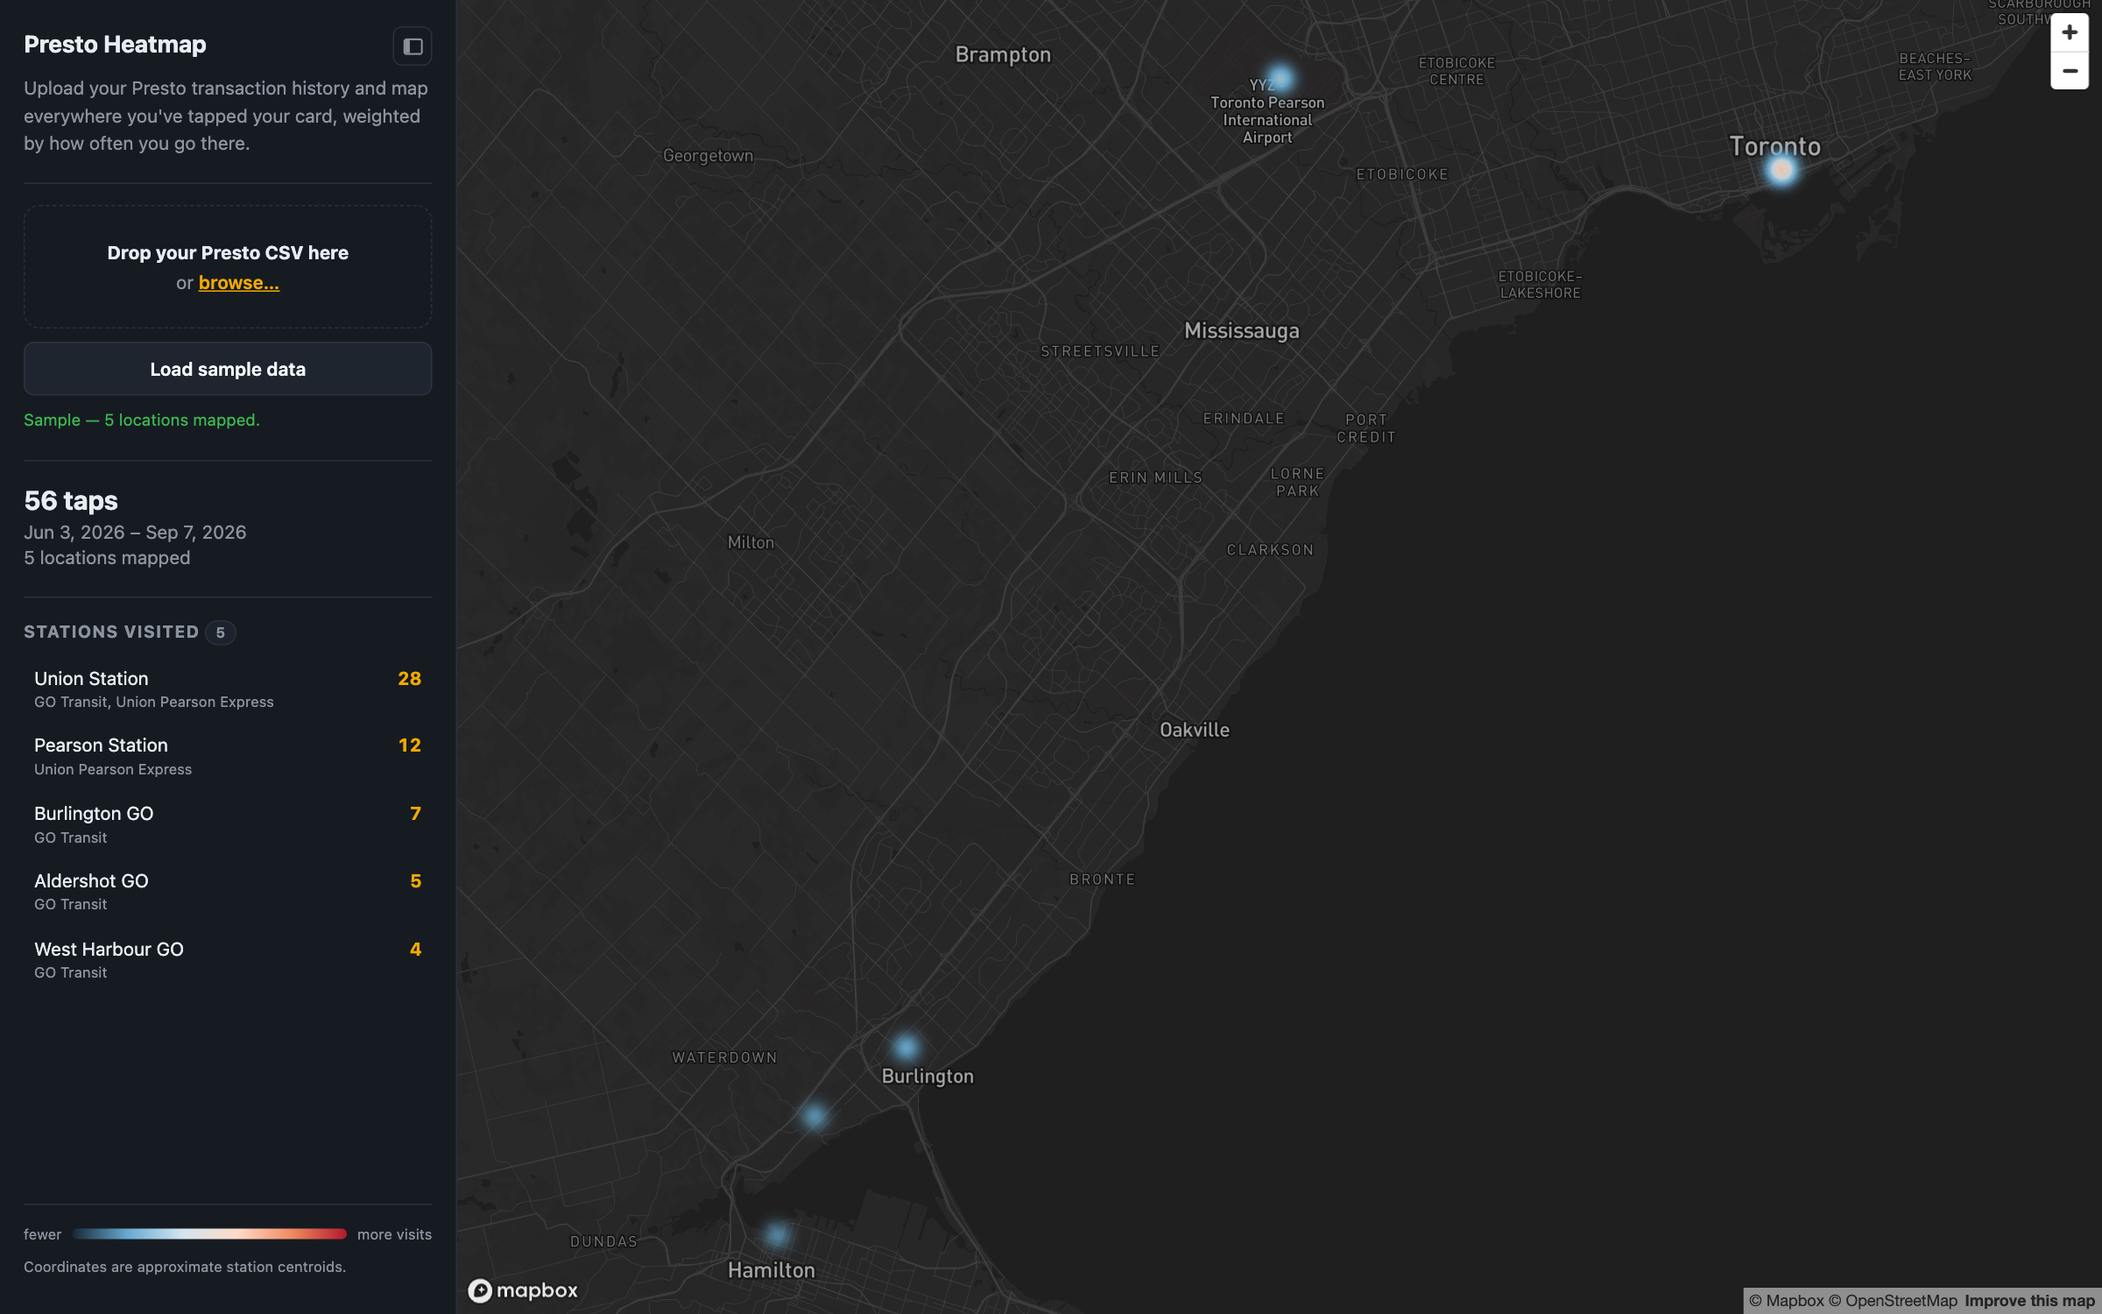
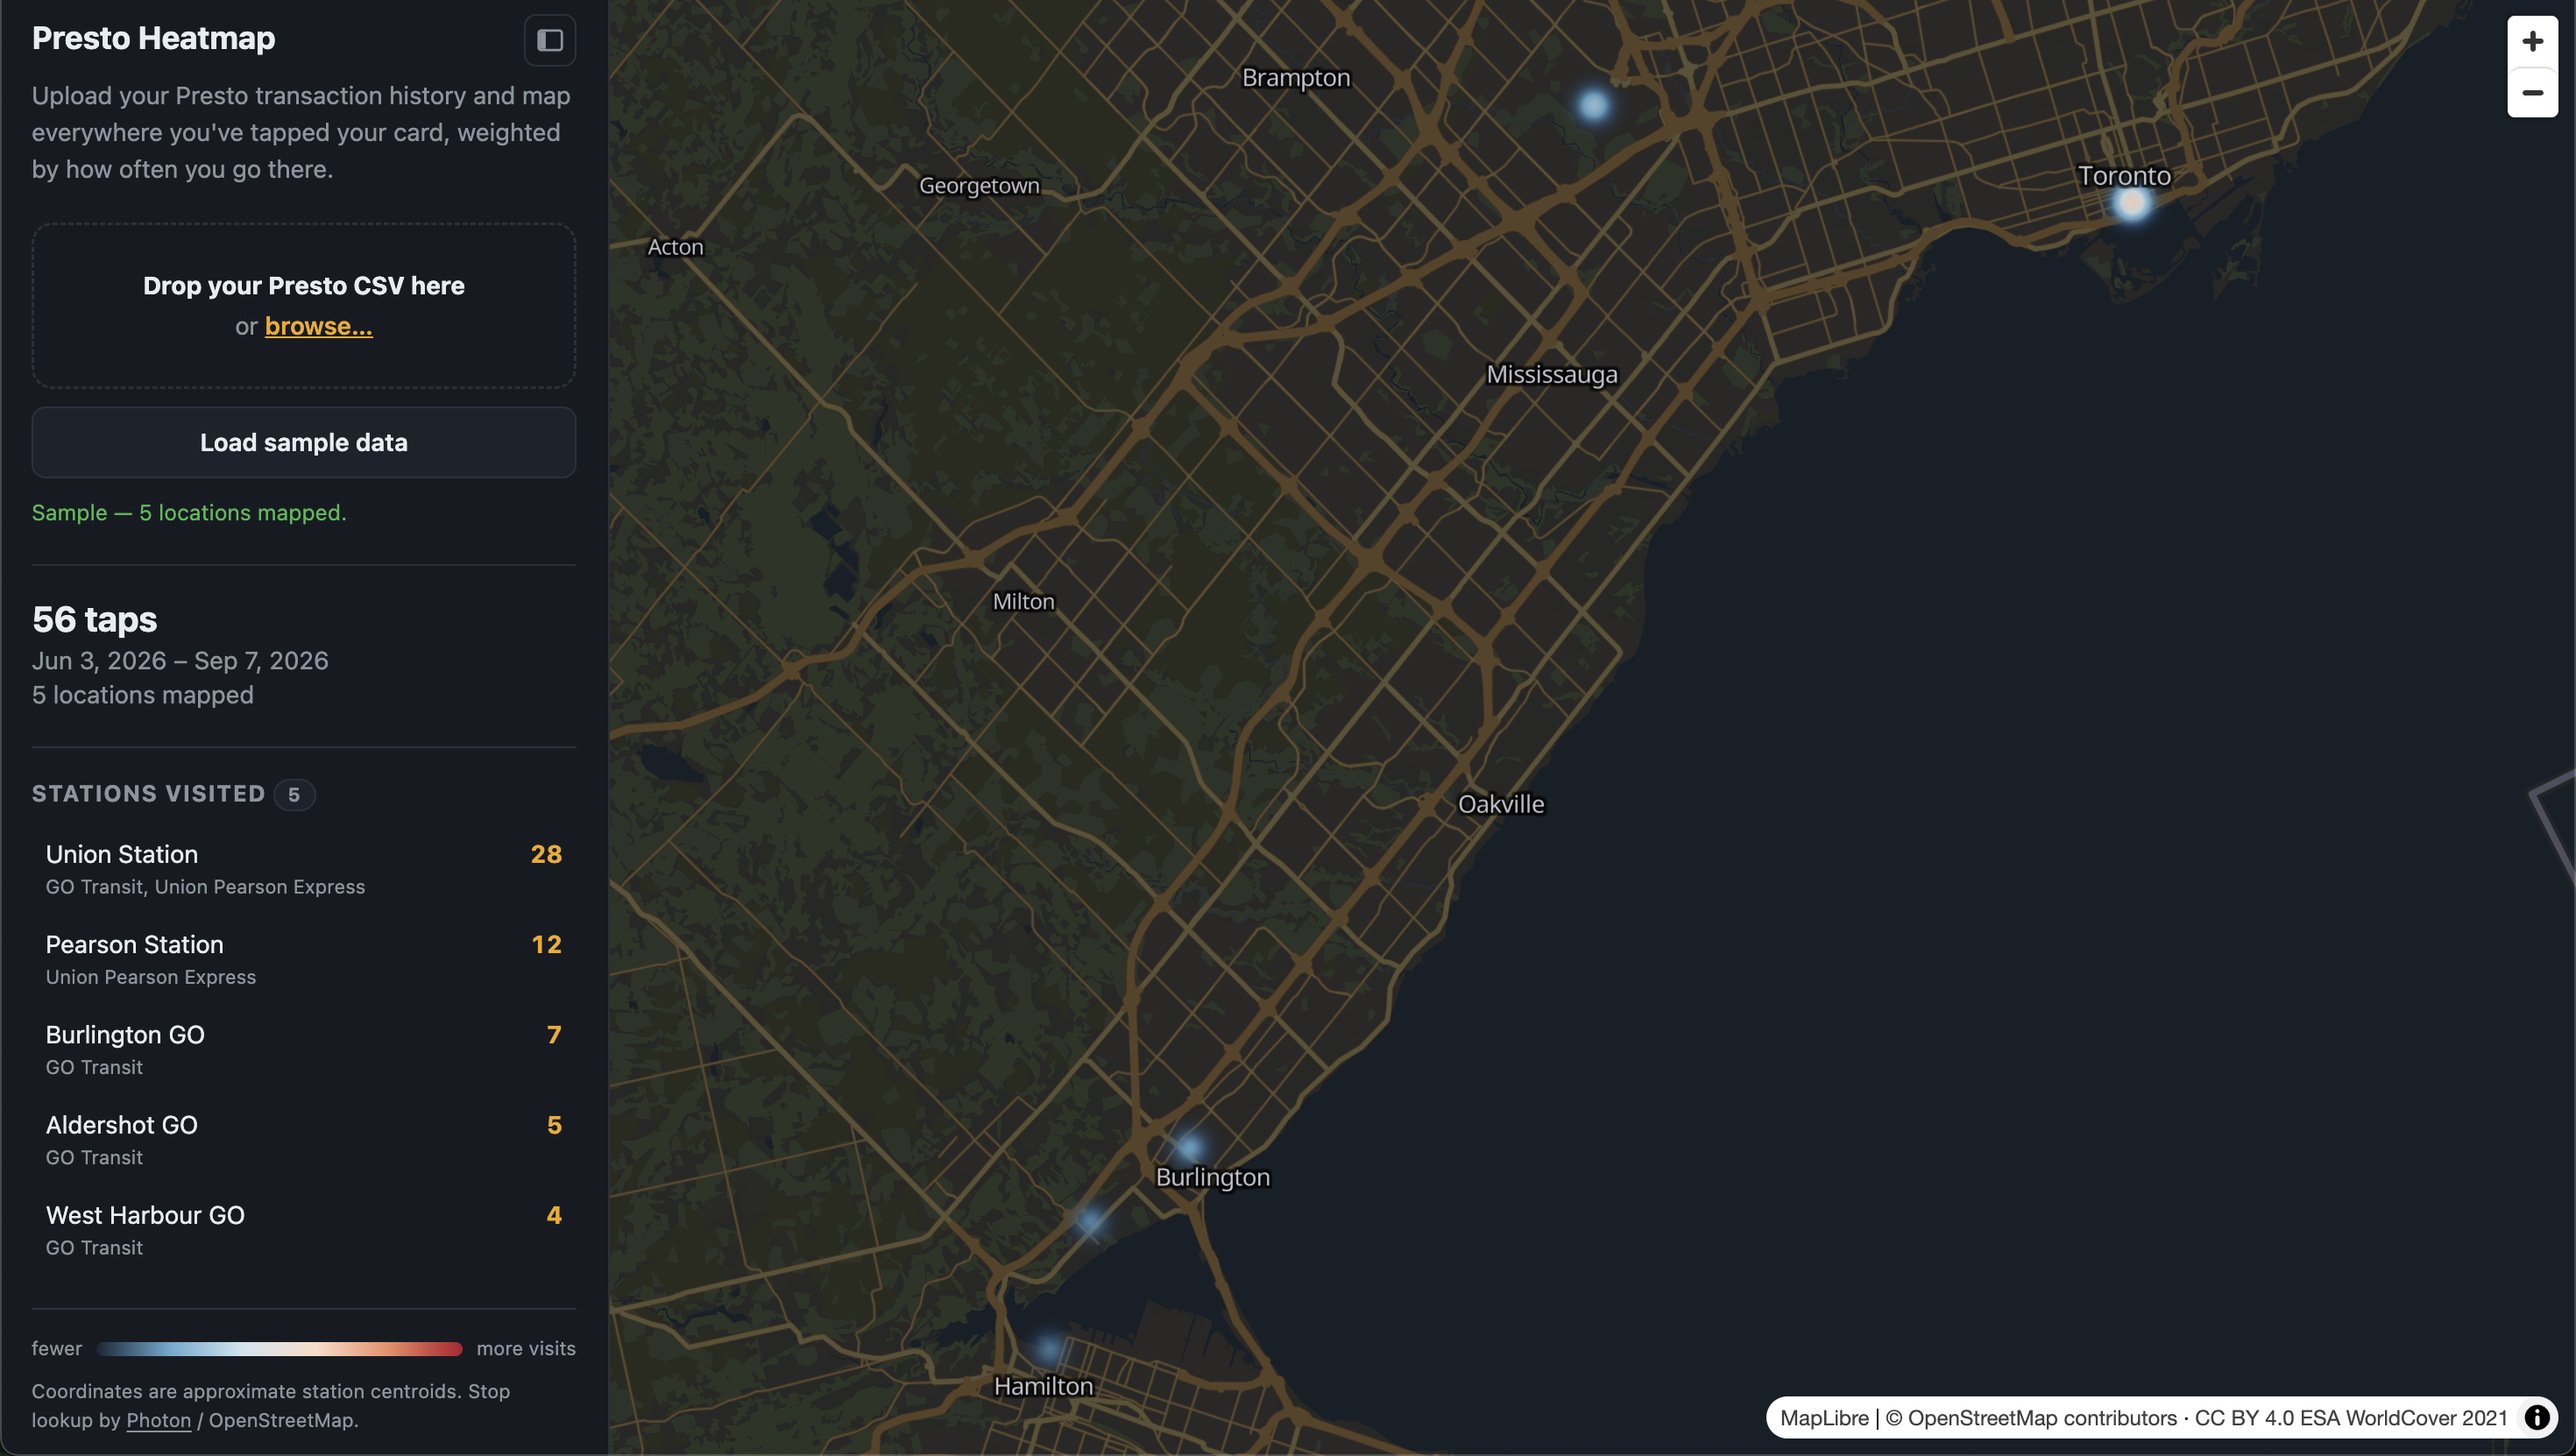
cleanup styles + directory structure; update screenshot

diff --git a/tests/parse.test.js b/tests/parse.test.js
@@ -10,7 +10,7 @@ globalThis.window = { Papa };
 
 const { parsePresto, parsePrestoDate, CsvError } = await import("../js/parse.js");
 
-const sampleCsv = readFileSync(new URL("../presto-sample.csv", import.meta.url), "utf8");
+const sampleCsv = readFileSync(new URL("../assets/presto-sample.csv", import.meta.url), "utf8");
 const fiveRowCsv = readFileSync(new URL("./fixtures/presto-5-rows.csv", import.meta.url), "utf8");
 
 describe("parsePrestoDate()", () => {

diff --git a/js/app.js b/js/app.js
@@ -327,7 +327,7 @@ function wireInputs() {
   els.sampleBtn.addEventListener("click", async () => {
     setStatus("Loading sample data…", "working");
     try {
-      const res = await fetch("./presto-sample.csv");
+      const res = await fetch("./assets/presto-sample.csv");
       if (!res.ok) throw new Error(String(res.status));
       await handleCsvText(await res.text(), "Sample");
     } catch {

diff --git a/css/styles.css b/css/styles.css
@@ -373,6 +373,17 @@ button.link {
   color: var(--muted);
 }
 
+.colophon a {
+  color: inherit;
+  text-decoration: underline;
+  text-underline-offset: 2px;
+}
+
+.colophon a:hover,
+.colophon a:focus-visible {
+  color: var(--accent);
+}
+
 /* ---------- map ---------- */
 
 #map {

diff --git a/README.md b/README.md
@@ -9,7 +9,7 @@ No API keys or accounts needed: the map is [MapLibre GL](https://maplibre.org) w
 [VersaTiles](https://versatiles.org) style (`assets/map-style.json`, free OpenStreetMap tiles),
 and surface stops are geocoded with [Photon](https://photon.komoot.io) (OpenStreetMap data).
 
-`presto-sample.csv` is a small **synthetic** dataset used for the "Load sample data" button and the tests. The real
+`assets/presto-sample.csv` is a small **synthetic** dataset used for the "Load sample data" button and the tests. The real
 flow works with any valid Presto export.
 
 ![Presto Heatmap with the sample data loaded — heat over the Toronto–Hamilton GO corridor and a ranked station list in the sidebar](docs/screenshot.png)
@@ -175,7 +175,7 @@ npm test
 | `tests/geocode.test.js` | `geocodeStations()` with `fetch`/`localStorage` mocked: curated stations skip the network, uncurated ones call Photon and get cached, no-match / HTTP-error / offline responses land in `unresolved` with a reason, and every input station ends up counted exactly once |
 
 `tests/fixtures/presto-5-rows.csv` is the header plus the first 5 data rows of
-`presto-sample.csv`, used as a small hand-checkable fixture alongside the full sample.
+`assets/presto-sample.csv`, used as a small hand-checkable fixture alongside the full sample.
 
 Manual end-to-end check: serve the folder, click **Load sample
 data** → heatmap over the Toronto–Hamilton GO corridor, Union Station hottest, summary line
